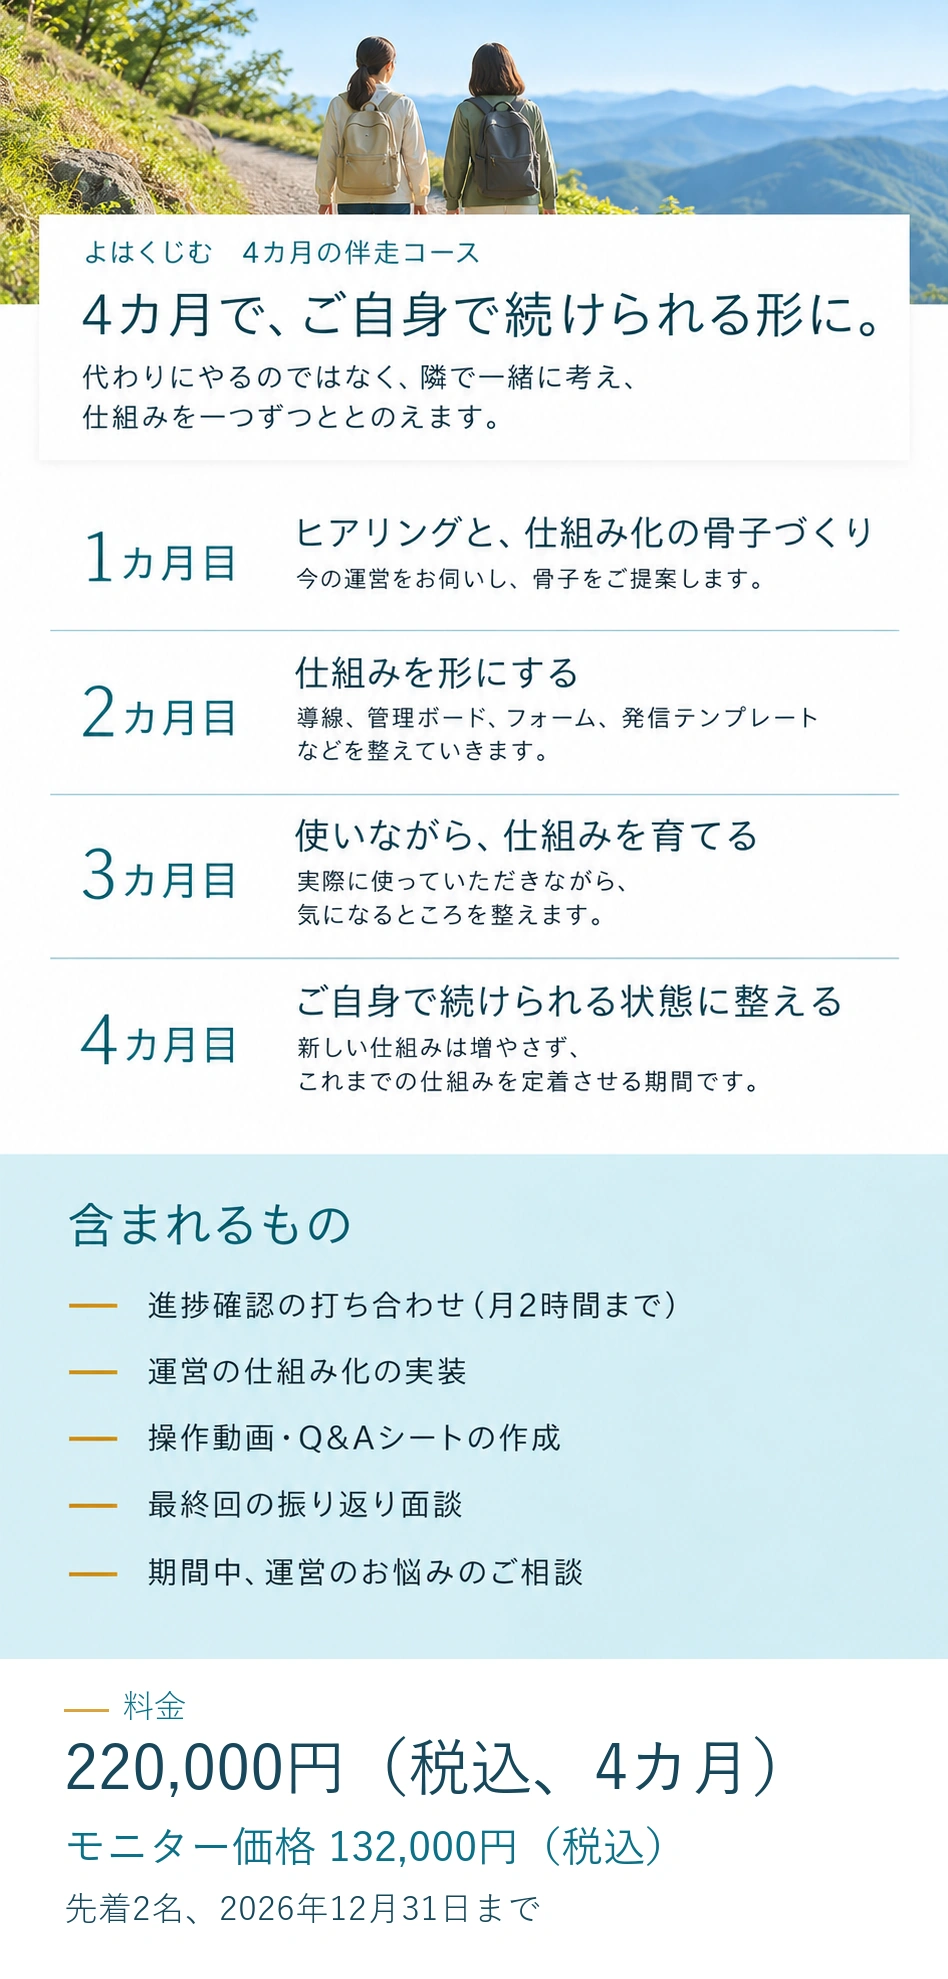
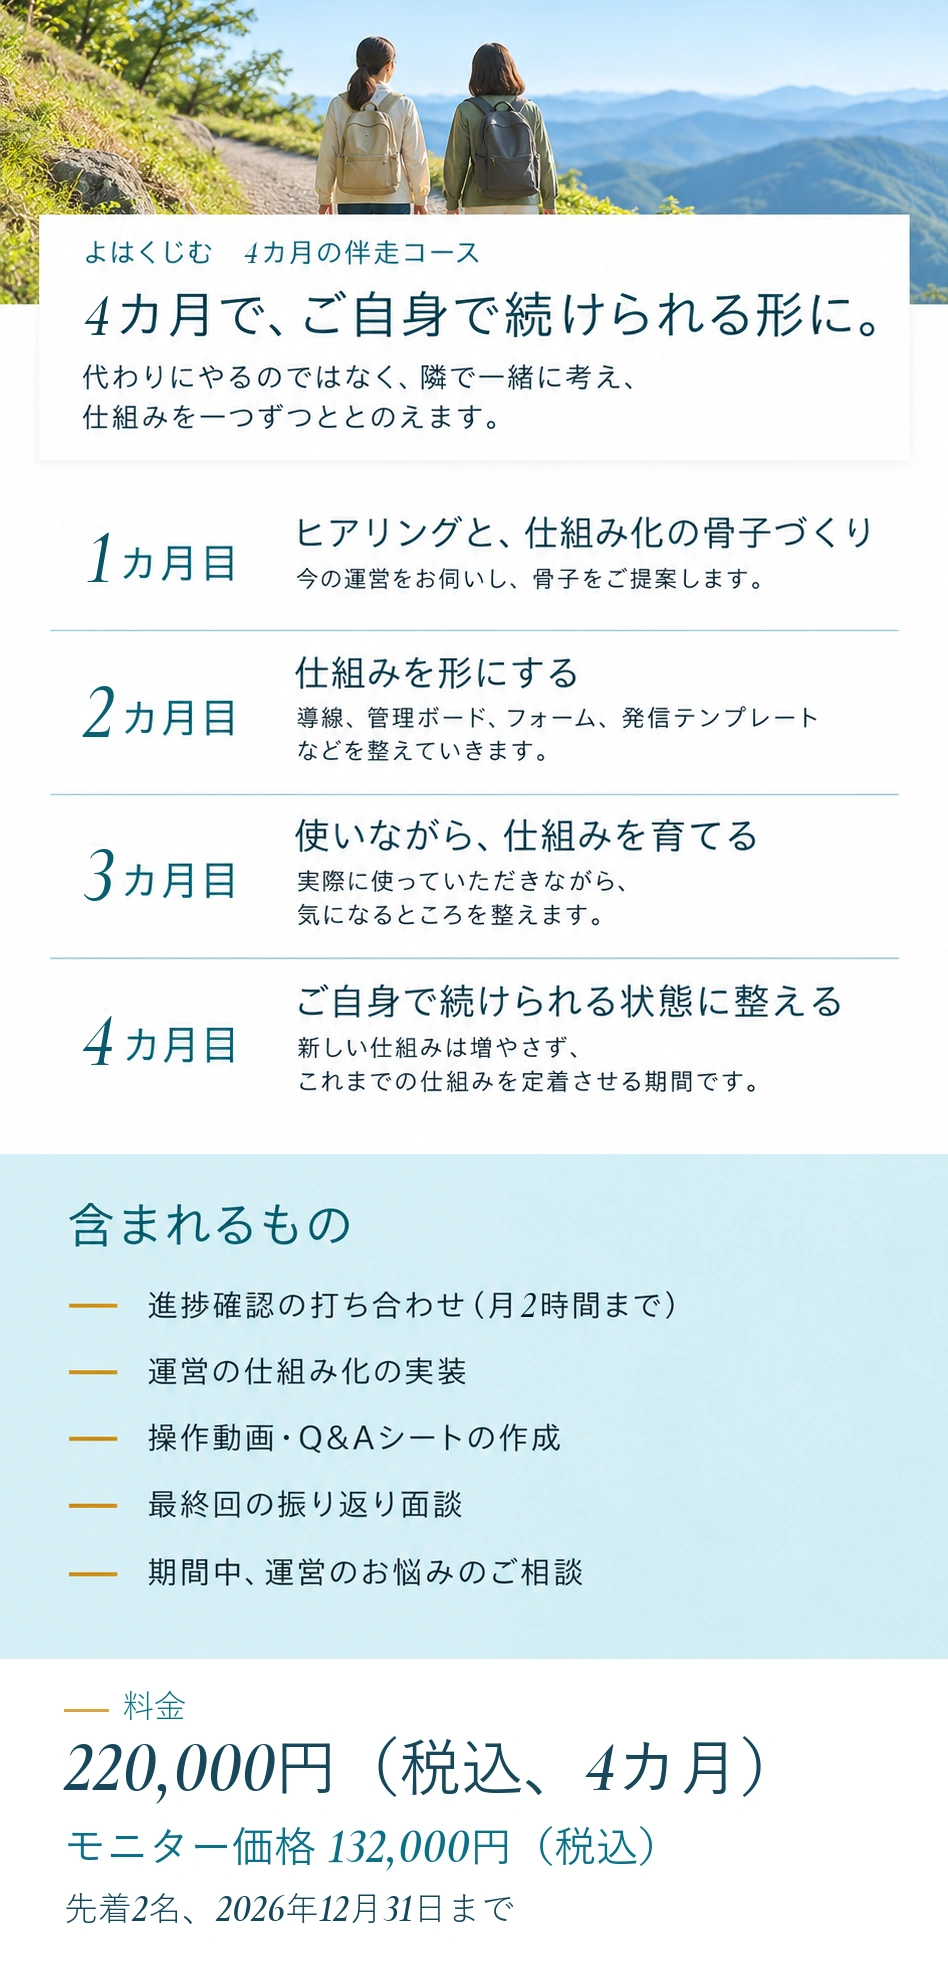
数字をすべて Cormorant Garamond の斜体にそろえる

diff --git a/style.css b/style.css
@@ -7,11 +7,23 @@
 
 * { box-sizing: border-box; }
 
+/* 数字（と数字の区切りのカンマ）だけを、英語見出しと同じ系統の斜体にする（2026-11-07 ゆうこさんの指定） */
+@font-face {
+  font-family: "LP Num";
+  src: url(https://fonts.gstatic.com/s/cormorantgaramond/v21/co3smX5slCNuHLi8bLeY9MK7whWMhyjYrGFEsdtdc62E6zd5LDf-iNM8.woff2) format("woff2");
+  font-style: normal;
+  font-weight: 100 900;
+  font-display: swap;
+  size-adjust: 118%;
+  unicode-range: U+0030-0039, U+002C;
+}
+
 body {
   margin: 0;
   background: var(--mist);
   color: var(--ink);
-  font-family: "Zen Kaku Gothic New", "Hiragino Sans", "Yu Gothic", sans-serif;
+  font-family: "LP Num", "Zen Kaku Gothic New", "Hiragino Sans", "Yu Gothic", sans-serif;
+  font-variant-numeric: lining-nums;
   font-size: 16px;
   line-height: 1.8;
 }
